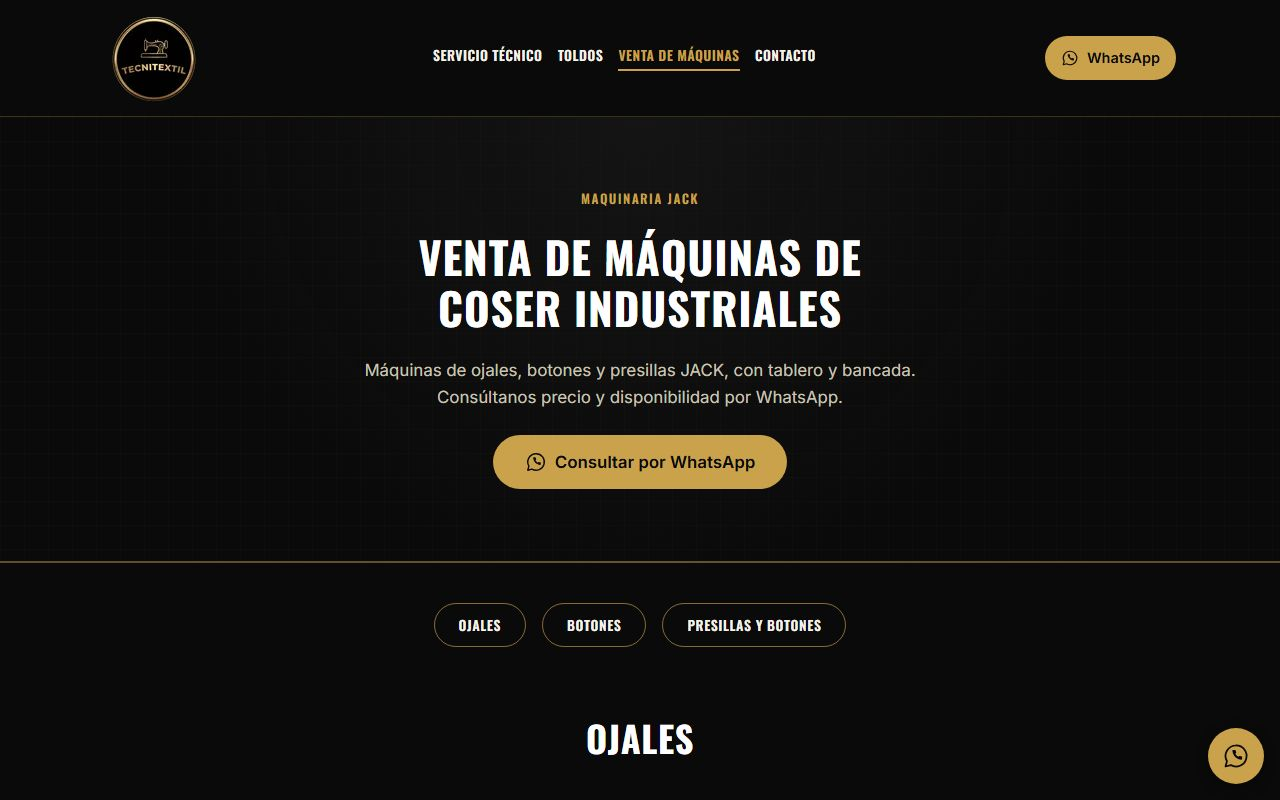
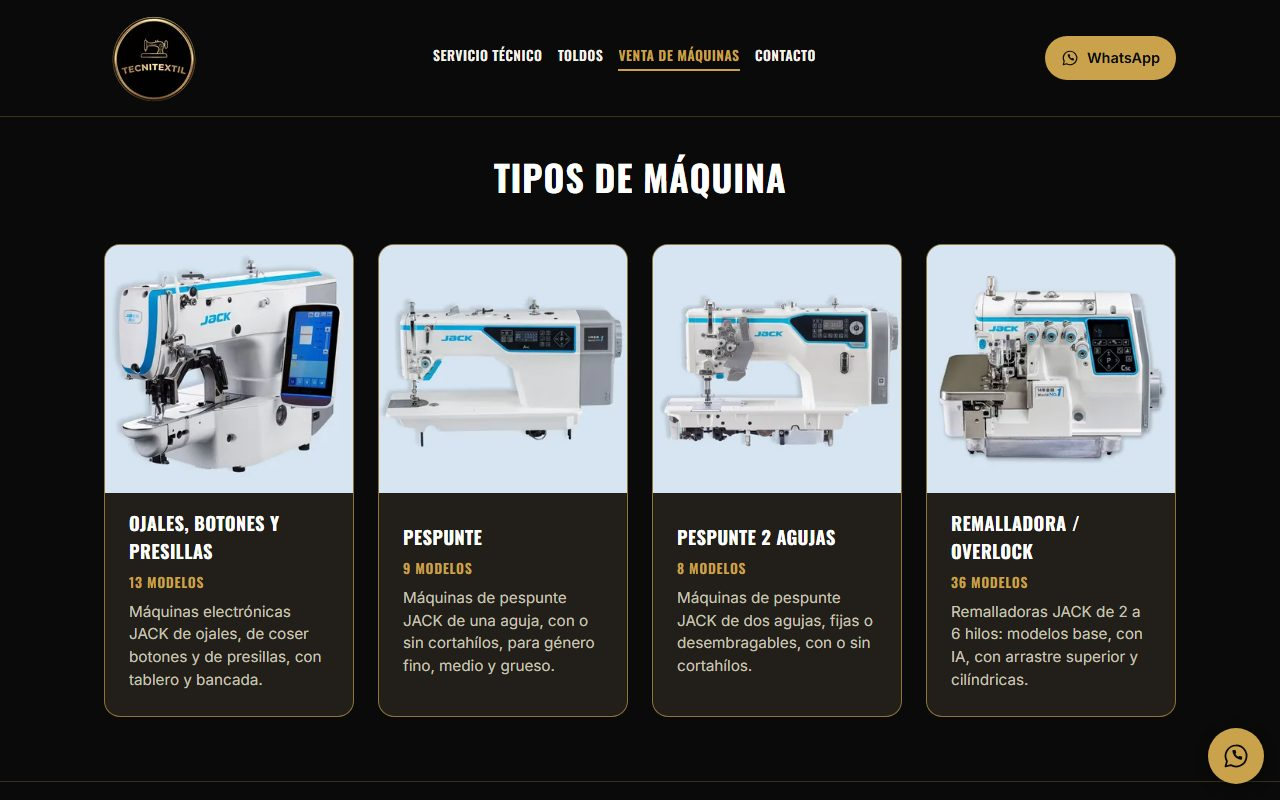
docs: describe the catalogue by category and refresh its screenshots

diff --git a/README.es.md b/README.es.md
@@ -11,8 +11,8 @@ Web en producción de una empresa española de reparación, mantenimiento y vent
 ## Puntos destacados
 
 - **HTML estático, JavaScript solo donde hace falta.** Astro genera cada página en el build; los únicos scripts del navegador son el del menú del header y el de Web Analytics, unos 3 kB por página. Una prueba en navegador falla si una página descarga más de 15 kB de JavaScript propio.
-- **Páginas, no un scroll interminable.** Inicio, servicio técnico, toldos y el catálogo son páginas independientes enlazadas desde un menú que marca la página actual en el HTML (`aria-current="page"`), comprobado en las pruebas en navegador.
-- **Un catálogo de máquinas tipado.** Las máquinas viven en una colección de contenido validada por un esquema Zod en el build. Cada página de máquina tiene exactamente una consulta de WhatsApp que nombra el modelo, y ninguna página muestra un precio, una decisión de negocio comprobada por una prueba que busca `€`, `EUR` e `IVA`.
+- **Páginas, no un scroll interminable.** Inicio, servicio técnico, toldos y el catálogo son páginas independientes enlazadas desde un menú que marca la página actual en el HTML (`aria-current="page"`), comprobado en las pruebas en navegador. El catálogo es un índice de cuatro categorías JACK, cada una en su página y agrupada por los tipos del propio JACK, con dos tarjetas de máquina por fila en el móvil.
+- **Un catálogo de máquinas tipado.** 66 máquinas viven en una colección de contenido, con una carpeta por categoría y modelo, validada por un esquema Zod y una comprobación del build: una máquina en la carpeta equivocada, un tipo fuera de su categoría, una categoría vacía o una foto de portada que falta rompen el build. Las máquinas sin foto del proveedor muestran un recuadro "Foto no disponible". Cada página de máquina tiene exactamente una consulta de WhatsApp que nombra el modelo, y ninguna página muestra un precio, una decisión de negocio comprobada por una prueba que busca `€`, `EUR` e `IVA`.
 - **Conversión medida en el plan gratuito.** Los clics en WhatsApp se cuentan como visitas virtuales a `/contactar/...` en Vercel Web Analytics, que no tiene eventos personalizados en el plan gratuito. Los enlaces siguen siendo anclas directas a `wa.me` para que el propio toque abra la app de WhatsApp en iOS.
 - **Accesibilidad probada en tres navegadores.** Playwright ejecuta axe en todas las páginas en Pixel 7 (Chromium), iPhone 15 (WebKit) y escritorio Chrome, y falla si encuentra problemas graves o críticos.
 - **Tokens de diseño.** Colores compartidos y una escala dorada de "líneas" (`--line-subtle` a `--line-control`) cuyo paso más fuerte mantiene un contraste medido de al menos 3:1 para los bordes interactivos, además de estilos de hero y tarjetas compartidos entre páginas.
@@ -22,11 +22,11 @@ Web en producción de una empresa española de reparación, mantenimiento y vent
 ## Capturas
 
 <p>
-  <img src=".github/assets/screenshot-catalogue.jpg" alt="Página del catálogo de máquinas en escritorio, agrupado por tipo" width="48%">
+  <img src=".github/assets/screenshot-catalogue.jpg" alt="Índice del catálogo de máquinas en escritorio: cuatro categorías JACK con su número de modelos" width="48%">
   <img src=".github/assets/screenshot-machine.jpg" alt="Página de una máquina en escritorio, con su consulta de WhatsApp y las migas de pan" width="48%">
 </p>
 <p>
-  <img src=".github/assets/screenshot-mobile.jpg" alt="Página de una máquina en un móvil" width="28%">
+  <img src=".github/assets/screenshot-mobile.jpg" alt="Página de una categoría en un móvil: dos tarjetas de máquina por fila" width="28%">
 </p>
 
 ## Tecnologías
@@ -60,6 +60,8 @@ A fecha de 2026-09-23, medido en CI:
 
 - **Astro estático en vez de Next.js** — el contenido es texto de marketing fijo más un catálogo pequeño, así que basta un generador en build time que no envía JS de cliente por defecto — contrapartida: sin renderizado en servidor si la web algún día necesita personalización por visitante.
 - **Una colección de contenido para el catálogo** — cada máquina es un archivo Markdown tipado, validado contra un esquema Zod en el build, así que una entrada incorrecta rompe el build en vez de publicarse — contrapartida: añadir una máquina requiere un pull request, no un formulario de CMS.
+- **Las categorías como datos** — `MACHINE_FAMILIES` en `src/data/catalog.ts` es la única fuente de las páginas de categoría, las tarjetas del índice, las migas de pan, las entradas del sitemap y las comprobaciones del build, y las URLs de las máquinas cuelgan de su categoría (`/maquinas/<categoria>/<modelo>`; las 13 URLs planas originales redirigen de forma permanente) — contrapartida: los textos que nombran las categorías en prosa, como la introducción del índice, se siguen editando a mano.
+- **Lighthouse por plantilla, no por página** — el catálogo crece añadiendo carpetas, así que el CI audita una lista fija de plantillas (cada página de categoría, una máquina con fotos y otra sin ellas) en vez de las más de 70 páginas, y una prueba en navegador falla si falta una categoría en esa lista — contrapartida: un tipo de página nuevo hay que añadirlo a la lista a mano.
 - **Sin JSON-LD de `Product` sin precio** — Google trata como inválido un listado `Product` sin precio, y los precios nunca se publican por decisión de negocio — contrapartida: las páginas de máquina solo llevan datos estructurados `BreadcrumbList`, sin resultados enriquecidos de producto.
 - **CSP `'self'` y nada en línea** — una política que solo permite el propio dominio bloquea las etiquetas `<script>`/`<style>` inyectadas de las que depende la mayoría de XSS — contrapartida: cualquier recurso, incluido Vercel Analytics, debe alojarse en el propio dominio, y el `assetsInlineLimit` de Astro se fuerza a 0.
 - **Clics como visitas virtuales, no eventos personalizados ni una página puente** — el plan gratuito de analítica no tiene eventos personalizados, y una página puente retrasaría el toque lo suficiente para romper el enlace universal de iOS a `wa.me` — contrapartida: la actividad de contacto aparece como visitas bajo `/contactar/...`, no como eventos dedicados.
@@ -100,13 +102,13 @@ src/
     home.ts              #   textos de la página de inicio: hero, tarjetas y valores
     technicalService.ts  #   textos de la página de servicio técnico
     awnings.ts            #   textos de la página de toldos
-    catalog.ts            #   textos y etiquetas del catálogo
+    catalog.ts            #   categorías, textos y etiquetas del catálogo
     types.ts              #   formas de contenido compartidas entre los módulos de datos
     navigation.ts         #   menú y el id de anclaje del bloque de contacto
     legal.ts              #   aviso legal, privacidad y datos del titular
     seo.ts                #   URL del sitio, datos estructurados
     pages.ts              #   cada página: título, descripción, indexación
-  content/          # máquinas en venta: una carpeta por modelo (index.md + fotos)
+  content/          # máquinas en venta: una carpeta por categoría y modelo (index.md + fotos)
   pages/            # un archivo por URL, más robots.txt y sitemap.xml
   layouts/          # <head>, marco de las páginas públicas y plantilla de las legales
   components/       # un componente por sección (.astro + .module.css)
@@ -123,7 +125,8 @@ e2e/                # pruebas en navegador, un archivo por área (accessibility,
 - **Textos, teléfono o marcas:** edita `src/data/`.
 - **Una página nueva:** añade un archivo en `src/pages/` y su entrada en `src/data/pages.ts`. El sitemap la incluye salvo que esté marcada como `noindex`. Una página pública además usa `SiteLayout`, recibe una entrada en `src/data/navigation.ts` si pertenece al menú, y se añade a `PAGES` en `e2e/support.ts`.
 - **Un dominio propio:** la URL de la web es `https://www.tecnitextil.com` por defecto, definida en `astro.config.mjs`; se puede cambiar con la variable de entorno `SITE_URL` en Vercel (o en un `.env.local`).
-- **Una máquina en venta:** añade una carpeta `src/content/maquinas/<modelo-en-minúsculas>/` con `index.md` y hasta 4 fotos; el esquema de `src/content.config.ts` la valida en el build. Nunca se publican precios.
+- **Una máquina en venta:** añade una carpeta `src/content/maquinas/<categoria>/<modelo-en-minúsculas>/` con `index.md` y hasta 4 fotos (sin ninguna, sus páginas indican que la foto no está disponible); el esquema de `src/content.config.ts` y `assertCatalog` la validan en el build. Nunca se publican precios.
+- **Una categoría de máquinas nueva:** añade su entrada (etiqueta, título, resumen, modelo de portada y los tipos de JACK, en orden) a `MACHINE_FAMILIES` en `src/data/catalog.ts`, más las carpetas de sus máquinas; su página, su tarjeta en el índice, sus migas de pan y sus entradas del sitemap salen solas. Añade su página a `lighthouserc.json` (una prueba en navegador falla hasta que lo hagas) y revisa los textos que nombran las categorías en prosa.
 
 ## Despliegue
 

diff --git a/README.md b/README.md
@@ -11,8 +11,8 @@ Production site of a Spanish business that repairs, maintains and sells industri
 ## Highlights
 
 - **Static HTML, JavaScript only where it's needed.** Astro renders every page at build time; the only client scripts are the header menu and Web Analytics, about 3 kB per page. A browser test fails if any page ships more than 15 kB of its own JavaScript.
-- **Pages, not an endless scroll.** Home, technical service, awnings and the catalogue are separate pages linked from a menu that marks the current page in the HTML (`aria-current="page"`), checked in the browser tests.
-- **A typed machine catalogue.** Machines live in a content collection validated by a Zod schema at build time. Each machine page has exactly one WhatsApp enquiry naming the model, and no page shows a price — a business decision, checked by a test that scans for `€`, `EUR` and `IVA`.
+- **Pages, not an endless scroll.** Home, technical service, awnings and the catalogue are separate pages linked from a menu that marks the current page in the HTML (`aria-current="page"`), checked in the browser tests. The catalogue is a hub of four JACK categories, each on its own page grouped by JACK's own types, with two machine cards per row on phones.
+- **A typed machine catalogue.** 66 machines live in a content collection, one folder per category and model, validated by a Zod schema and a build check: a machine in the wrong folder, a type outside its category, an empty category or a missing cover photo fails the build. Machines without a supplier photo show a "Foto no disponible" frame. Each machine page has exactly one WhatsApp enquiry naming the model, and no page shows a price — a business decision, checked by a test that scans for `€`, `EUR` and `IVA`.
 - **Conversion measured on the free plan.** WhatsApp clicks are counted as virtual `/contactar/...` pageviews in Vercel Web Analytics, which has no custom events on the free tier. The links stay plain `wa.me` anchors so the tap alone still opens the WhatsApp app on iOS.
 - **Accessibility tested in three browsers.** Playwright runs axe against every page on Pixel 7 (Chromium), iPhone 15 (WebKit) and desktop Chrome, and fails on serious or critical violations.
 - **Design tokens.** Shared colours and a gold "line" scale (`--line-subtle` to `--line-control`) whose strongest step keeps a measured ≥3:1 contrast for interactive borders, plus shared hero and card styles reused across pages.
@@ -22,11 +22,11 @@ Production site of a Spanish business that repairs, maintains and sells industri
 ## Screenshots
 
 <p>
-  <img src=".github/assets/screenshot-catalogue.jpg" alt="Machine catalogue page on desktop, grouped by type" width="48%">
+  <img src=".github/assets/screenshot-catalogue.jpg" alt="The machine catalogue hub on desktop: four JACK categories with their model counts" width="48%">
   <img src=".github/assets/screenshot-machine.jpg" alt="A machine page on desktop, with its WhatsApp enquiry and breadcrumb" width="48%">
 </p>
 <p>
-  <img src=".github/assets/screenshot-mobile.jpg" alt="A machine page on a mobile screen" width="28%">
+  <img src=".github/assets/screenshot-mobile.jpg" alt="A category page on a phone: two machine cards per row" width="28%">
 </p>
 
 ## Tech stack
@@ -60,6 +60,8 @@ As of 2026-09-23, measured in CI:
 
 - **Astro static instead of Next.js** — the content is fixed marketing copy plus a small catalogue, so a build-time renderer that ships zero client JS by default is enough — trade-off: no built-in server rendering if the site ever needs per-visitor personalization.
 - **A content collection for the catalogue** — each machine is a typed Markdown file checked against a Zod schema at build time, so a bad entry fails the build instead of shipping — trade-off: adding a machine takes a pull request, not a CMS form.
+- **Categories as data** — `MACHINE_FAMILIES` in `src/data/catalog.ts` is the one source for the category pages, hub cards, breadcrumbs, sitemap entries and build checks, and machine URLs nest under their category (`/maquinas/<category>/<model>`, the 13 original flat URLs redirect permanently) — trade-off: copy that names the categories in prose, such as the hub intro, is still edited by hand.
+- **Lighthouse by page template, not by page** — the catalogue grows by adding folders, so CI audits a fixed list of templates (every category page, a machine with and one without photos) instead of all 70-odd pages, and a browser test fails if a category is missing from that list — trade-off: a new kind of page has to be added to the list by hand.
 - **No `Product` JSON-LD without a price** — Google treats a `Product` listing that omits a price as invalid, and prices are never published by business decision — trade-off: machine pages only get `BreadcrumbList` structured data, not product rich results.
 - **CSP `'self'` and nothing inline** — a same-origin-only policy blocks the injected `<script>`/`<style>` tags most XSS relies on — trade-off: every asset, including Vercel Analytics, must be self-hosted, and Astro's `assetsInlineLimit` is forced to 0.
 - **Clicks as virtual pageviews, not custom events or a bridge page** — the free analytics plan has no custom events, and a bridge page would delay the tap enough to break the iOS universal link to `wa.me` — trade-off: contact activity shows up as pageviews under `/contactar/...`, not as dedicated events.
@@ -100,13 +102,13 @@ src/
     home.ts              #   text of the home page: hero, section cards, value props
     technicalService.ts  #   text of the technical service page
     awnings.ts            #   text of the awnings (toldos) page
-    catalog.ts            #   catalogue labels and copy
+    catalog.ts            #   catalogue categories, labels and copy
     types.ts              #   content shapes shared across the data modules
     navigation.ts         #   menu and the closing contact block's anchor id
     legal.ts              #   legal notice, privacy policy and owner details
     seo.ts                #   site URL, structured data
     pages.ts              #   every page: title, description, indexing
-  content/          # machines for sale: one folder per model (index.md + photos)
+  content/          # machines for sale: one folder per category and model (index.md + photos)
   pages/            # one file per URL, plus robots.txt and sitemap.xml
   layouts/          # <head>, the public page frame and the legal page template
   components/       # one component per section (.astro + .module.css)
@@ -123,7 +125,8 @@ e2e/                # browser tests, one file per area (accessibility, architect
 - **Text, phone number or brands:** edit `src/data/`.
 - **A new page:** add a file to `src/pages/` and its entry to `src/data/pages.ts`. The sitemap picks it up unless the page is marked `noindex`. A public page also uses `SiteLayout`, gets a menu entry in `src/data/navigation.ts` when it belongs in the menu, and is added to `PAGES` in `e2e/support.ts`.
 - **A custom domain:** the site URL is `https://www.tecnitextil.com` by default, set in `astro.config.mjs`; override it with the `SITE_URL` environment variable in Vercel (or in a local `.env.local`).
-- **A machine for sale:** add a folder `src/content/maquinas/<model-in-lowercase>/` with `index.md` and up to 4 photos; the schema in `src/content.config.ts` checks it at build time. Prices are never published.
+- **A machine for sale:** add a folder `src/content/maquinas/<category>/<model-in-lowercase>/` with `index.md` and up to 4 photos (with none, its pages say the photo is not available); the schema in `src/content.config.ts` and `assertCatalog` check it at build time. Prices are never published.
+- **A new machine category:** add its entry (label, title, summary, cover model and JACK's types, in order) to `MACHINE_FAMILIES` in `src/data/catalog.ts`, plus its machine folders; its page, hub card, breadcrumbs and sitemap entries follow. Add its page to `lighthouserc.json` (a browser test fails until you do) and review the texts that name the categories in prose.
 
 ## Deployment
 
